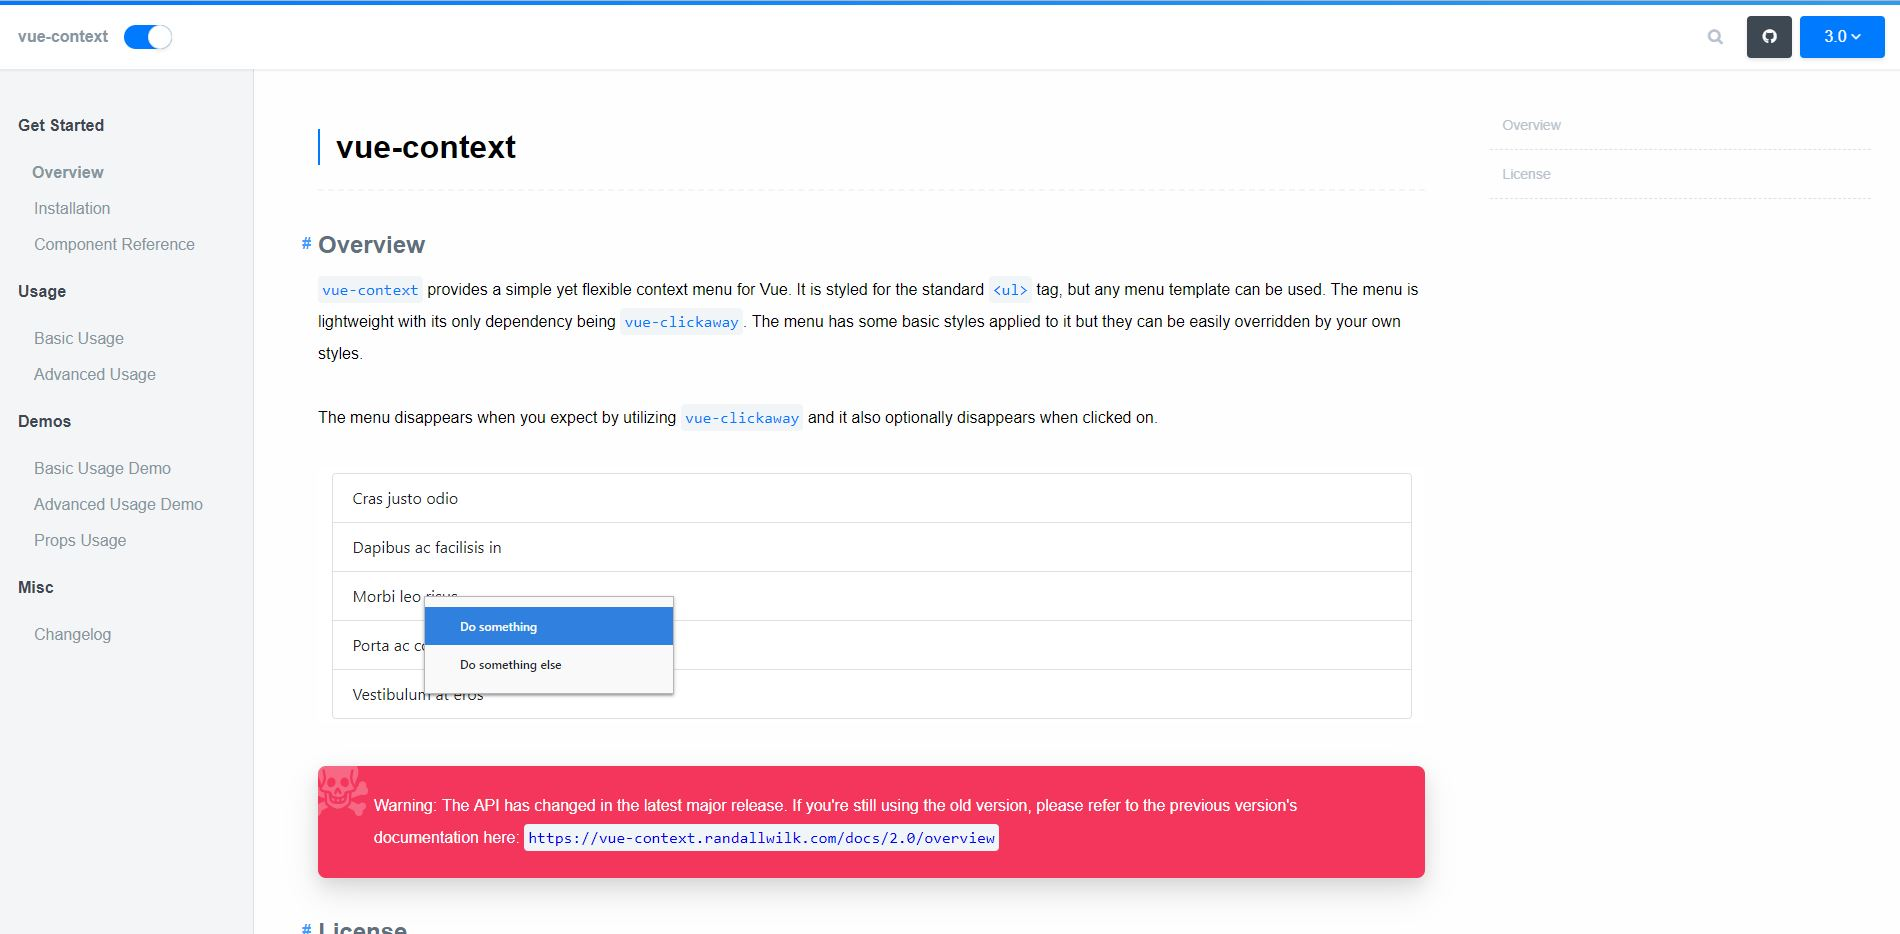
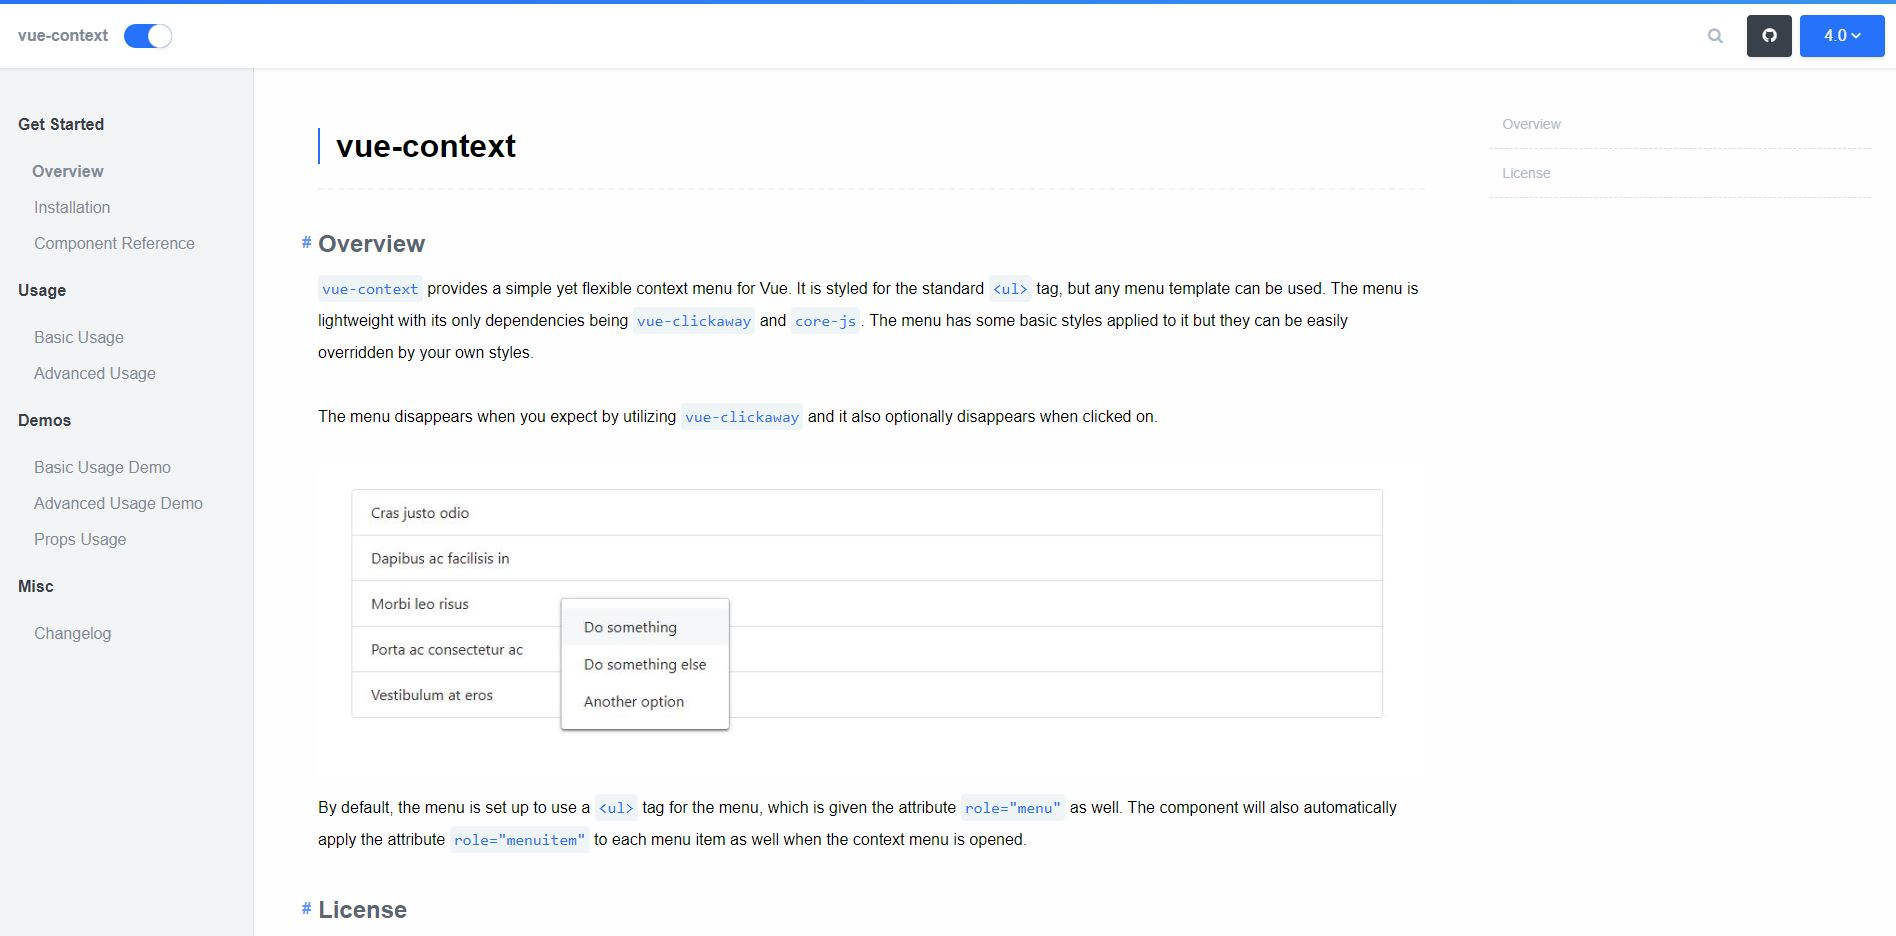
Update vue-context version

diff --git a/resources/views/frontend/projects/vue-context.blade.php b/resources/views/frontend/projects/vue-context.blade.php
@@ -16,7 +16,7 @@
 @endsection
 
 @section('version')
-    3.4.2
+    4.0.0
 @endsection
 
 @section('date')
